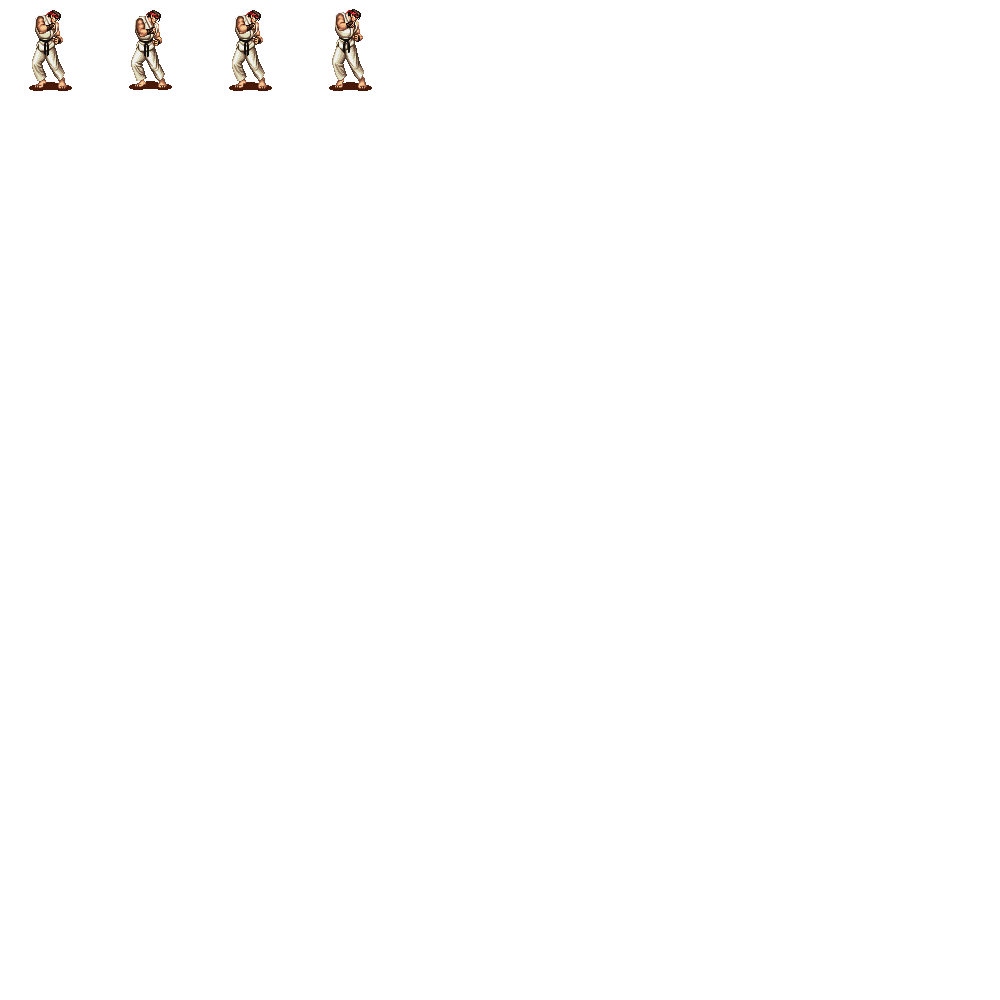
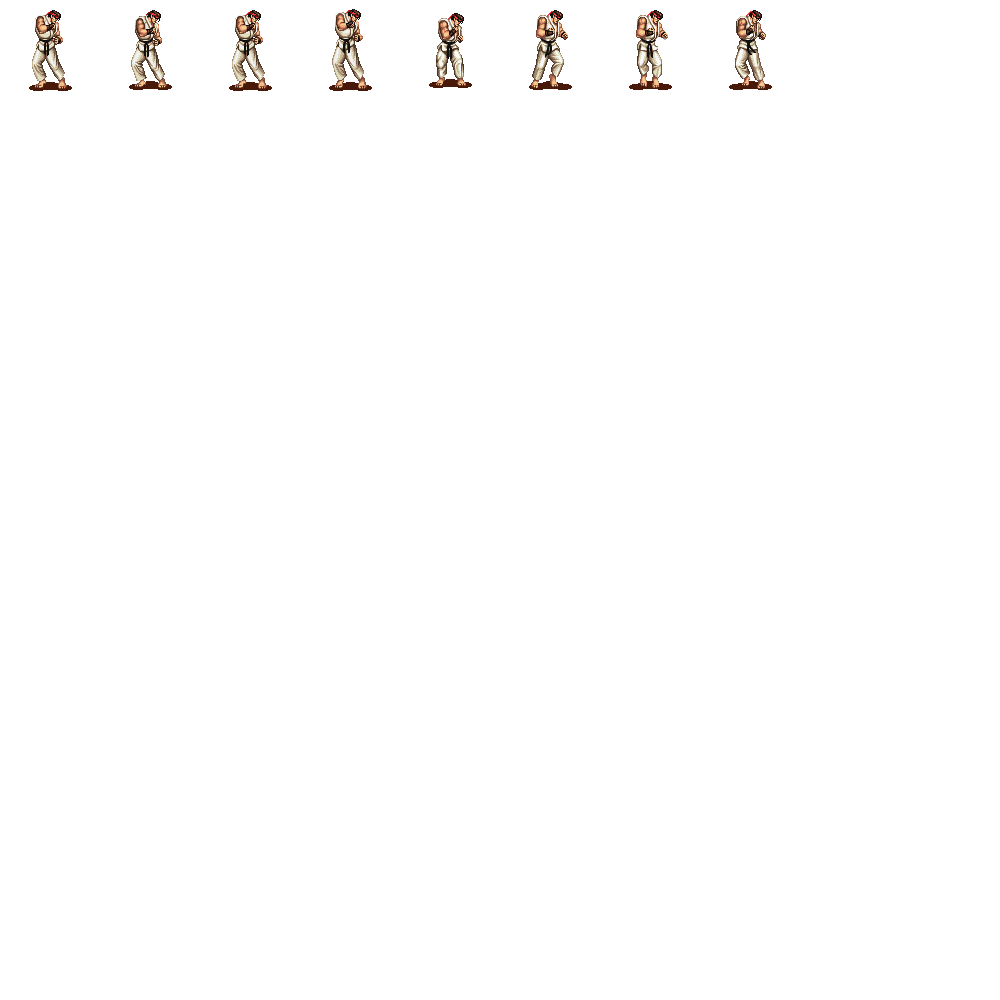
Ajouté animation marche ryu dans sprite + script

diff --git a/script.js b/script.js
@@ -164,7 +164,7 @@ function creationPerso2() {
         },
         animations: {
             standPerso2: [0, 3, true, 0.1],
-            walkPerso2: [90, 95, true, 0.2]
+            walkPerso2: [4, 8, true, 0.1]
         }
     });
 
